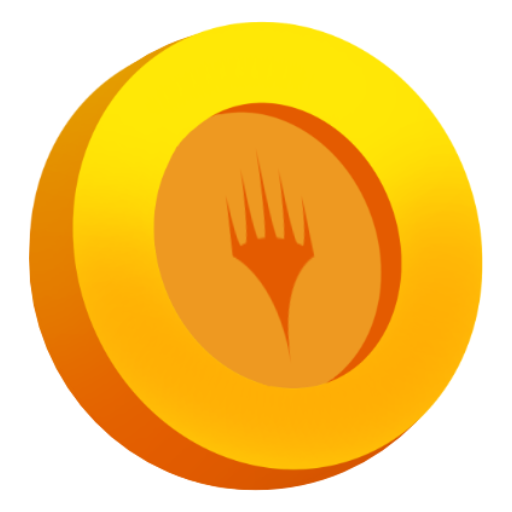
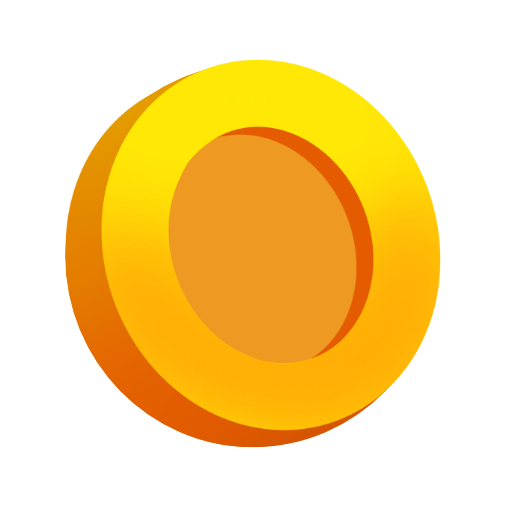
Replaced Coin Image
Replaced coin image to avoid issues with WoTC IP infringement. Also disabled some console logging in the setup command.

diff --git a/commands/admin/setup.js b/commands/admin/setup.js
@@ -47,7 +47,7 @@ module.exports = {
         guildObject.wishlist_channel = channel.id;
         await db.set('g' + interaction.guild.id, guildObject);
       }
-      console.log(`Setup - Wishlist channel set to ${channel}.`);
+      //console.log(`Setup - Wishlist channel set to ${channel}.`);
       await interaction.reply({ content: `Wishlists will be sent to the ${channel} channel.`, ephemeral: true });
 
     } else if (interaction.options.getSubcommand() === 'brew') {
@@ -61,7 +61,7 @@ module.exports = {
         guildObject.brew_channel = channel.id;
         await db.set('g' + interaction.guild.id, guildObject);
       }
-      console.log(`Setup - Brew channel set to ${channel}.`);
+      //console.log(`Setup - Brew channel set to ${channel}.`);
       await interaction.reply({ content: `Brewing threads will be created in the ${channel} channel.`, ephemeral: true });
     }
   },
